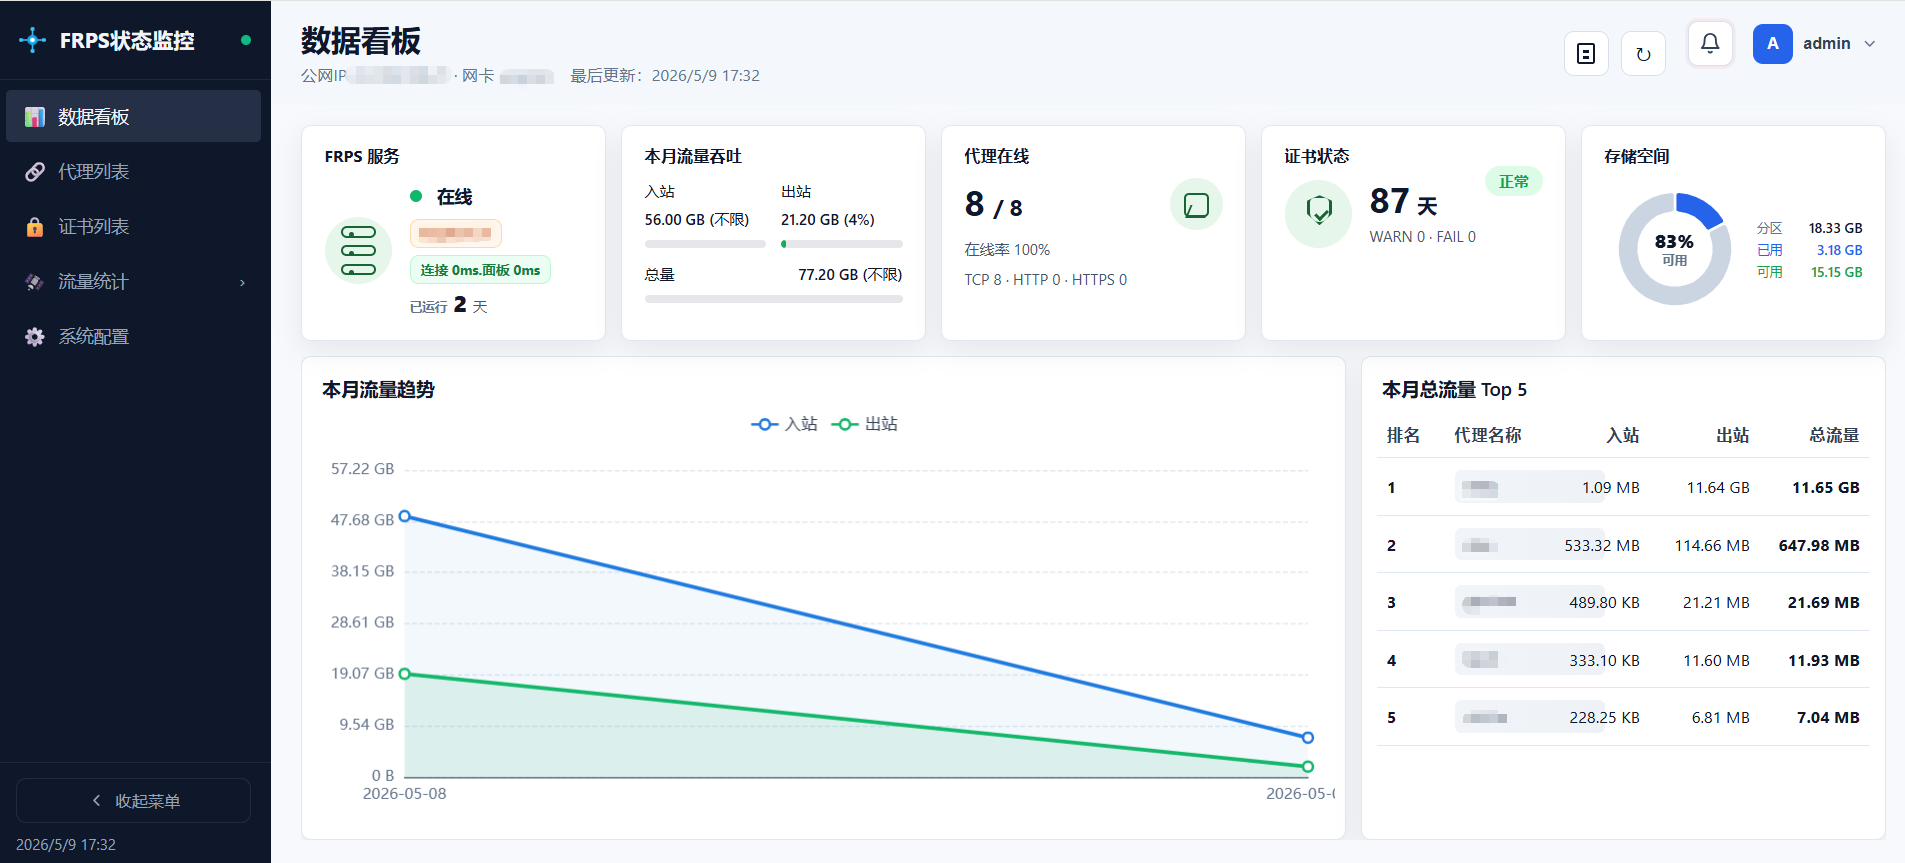
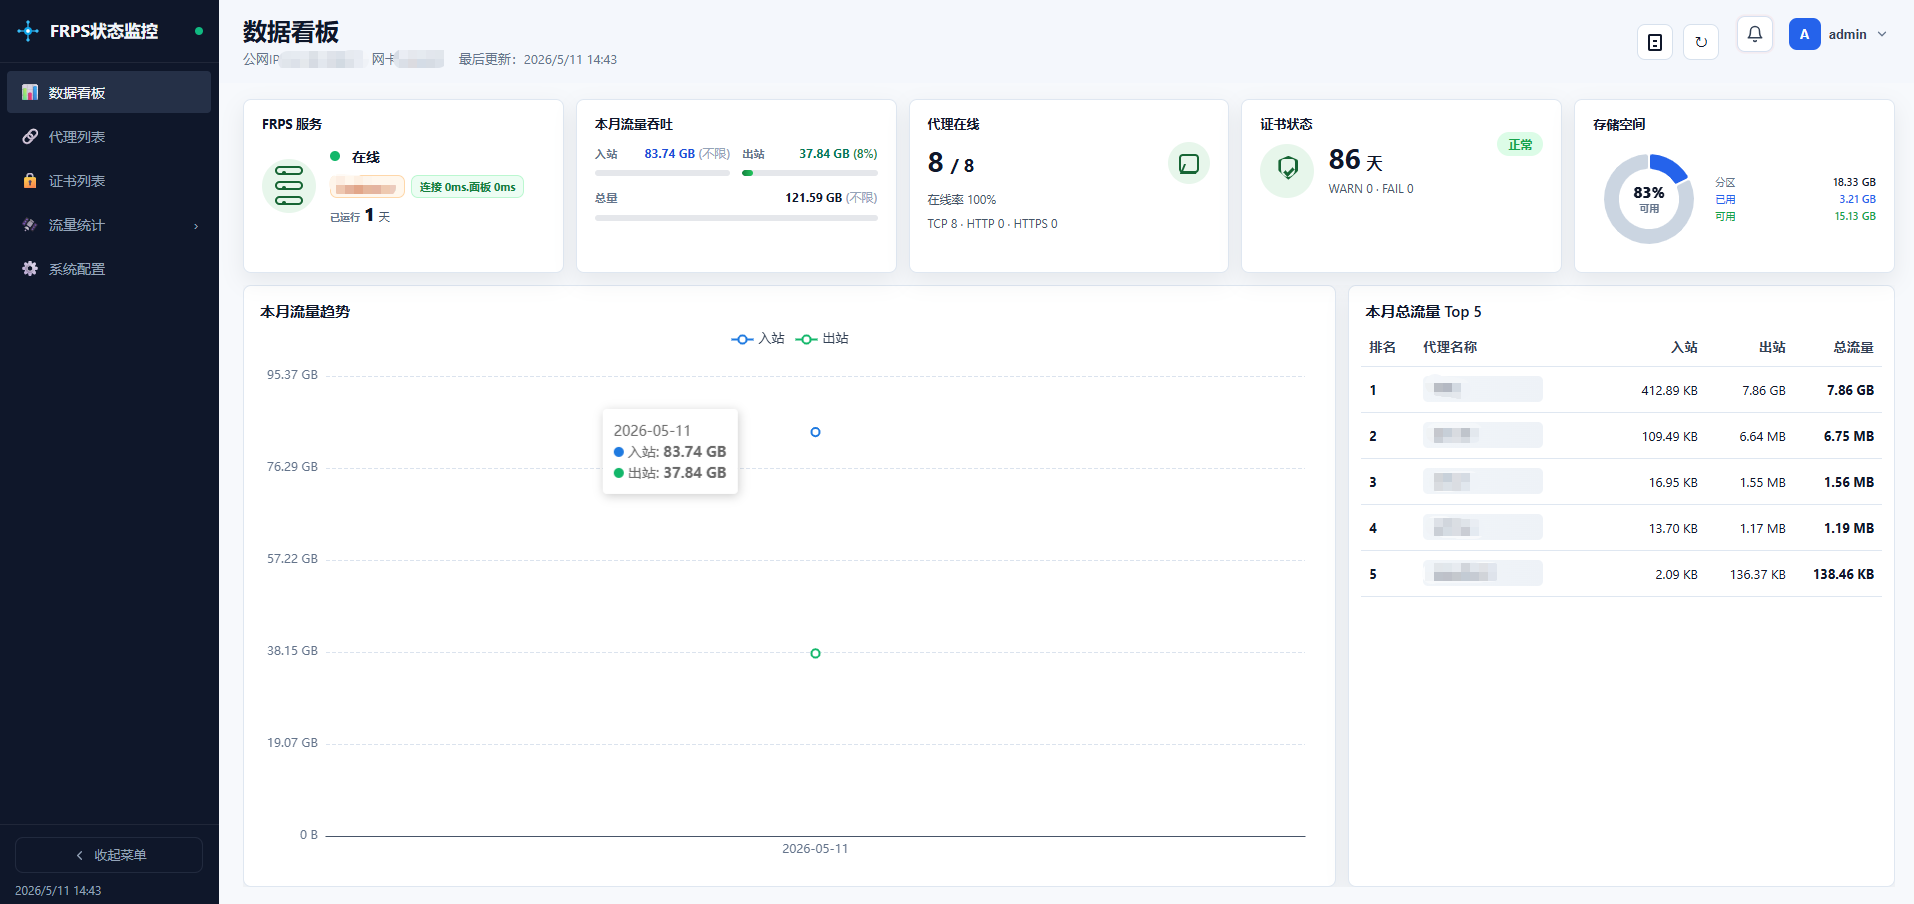
更新Readme

diff --git a/README.md b/README.md
@@ -212,7 +212,13 @@ https://status.<你的根域名>
 
 正式使用时，建议修改默认账号和密码。
 
-### 3.4 frps Dashboard
+### 3.4 忘记密码
+
+状态面板支持忘记密码重置。首次登录后建议在账户设置中填写找回邮箱，并在系统配置中完成 SMTP 邮件配置与测试；之后如果忘记密码，可以在登录页点击“忘记密码？”，输入预设的找回邮箱。系统会校验邮箱是否匹配，匹配后自动生成新密码并发送到该邮箱。
+
+**注意**：忘记密码功能依赖 SMTP 和找回邮箱。未配置 SMTP、SMTP 不可用，或未提前设置找回邮箱时，系统无法通过邮件重置账户凭据。
+
+### 3.5 frps Dashboard
 
 frps Dashboard 默认提供 HTTPS 反代入口：
 
